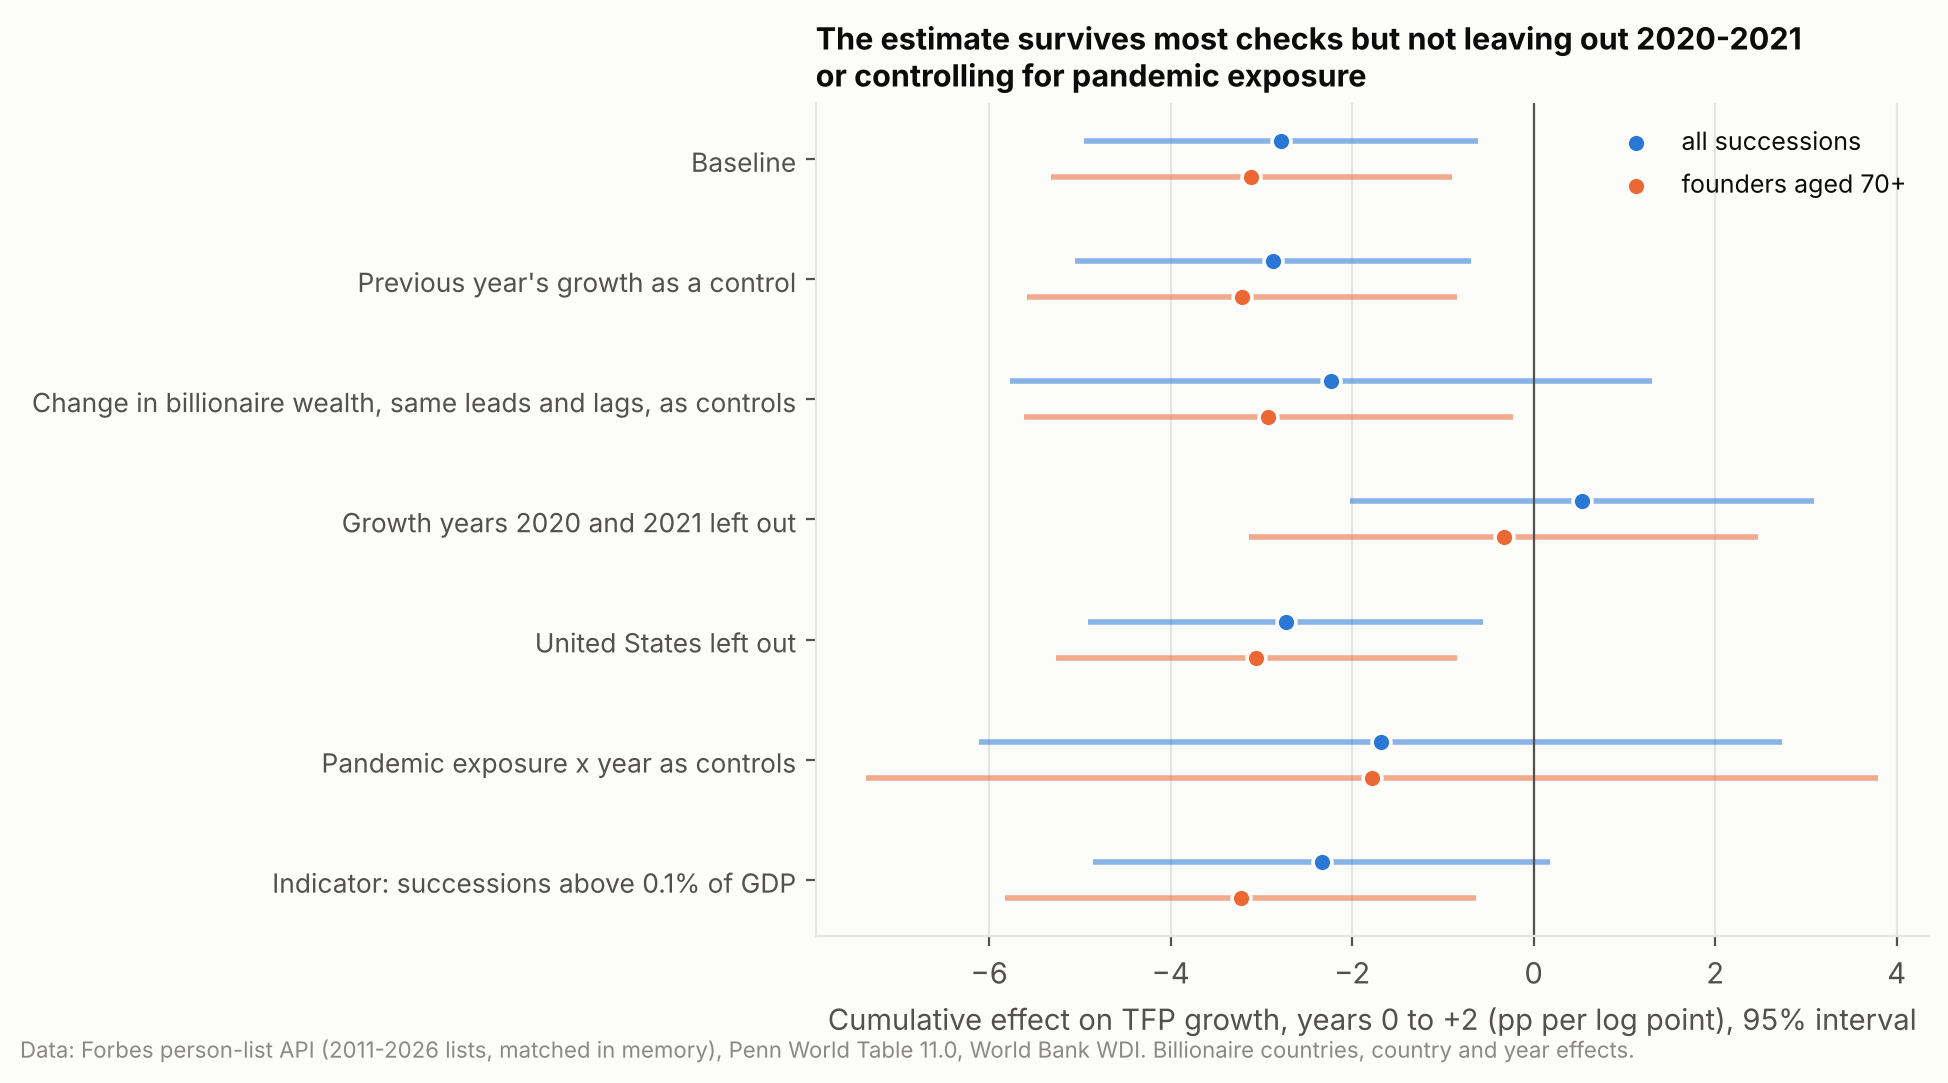
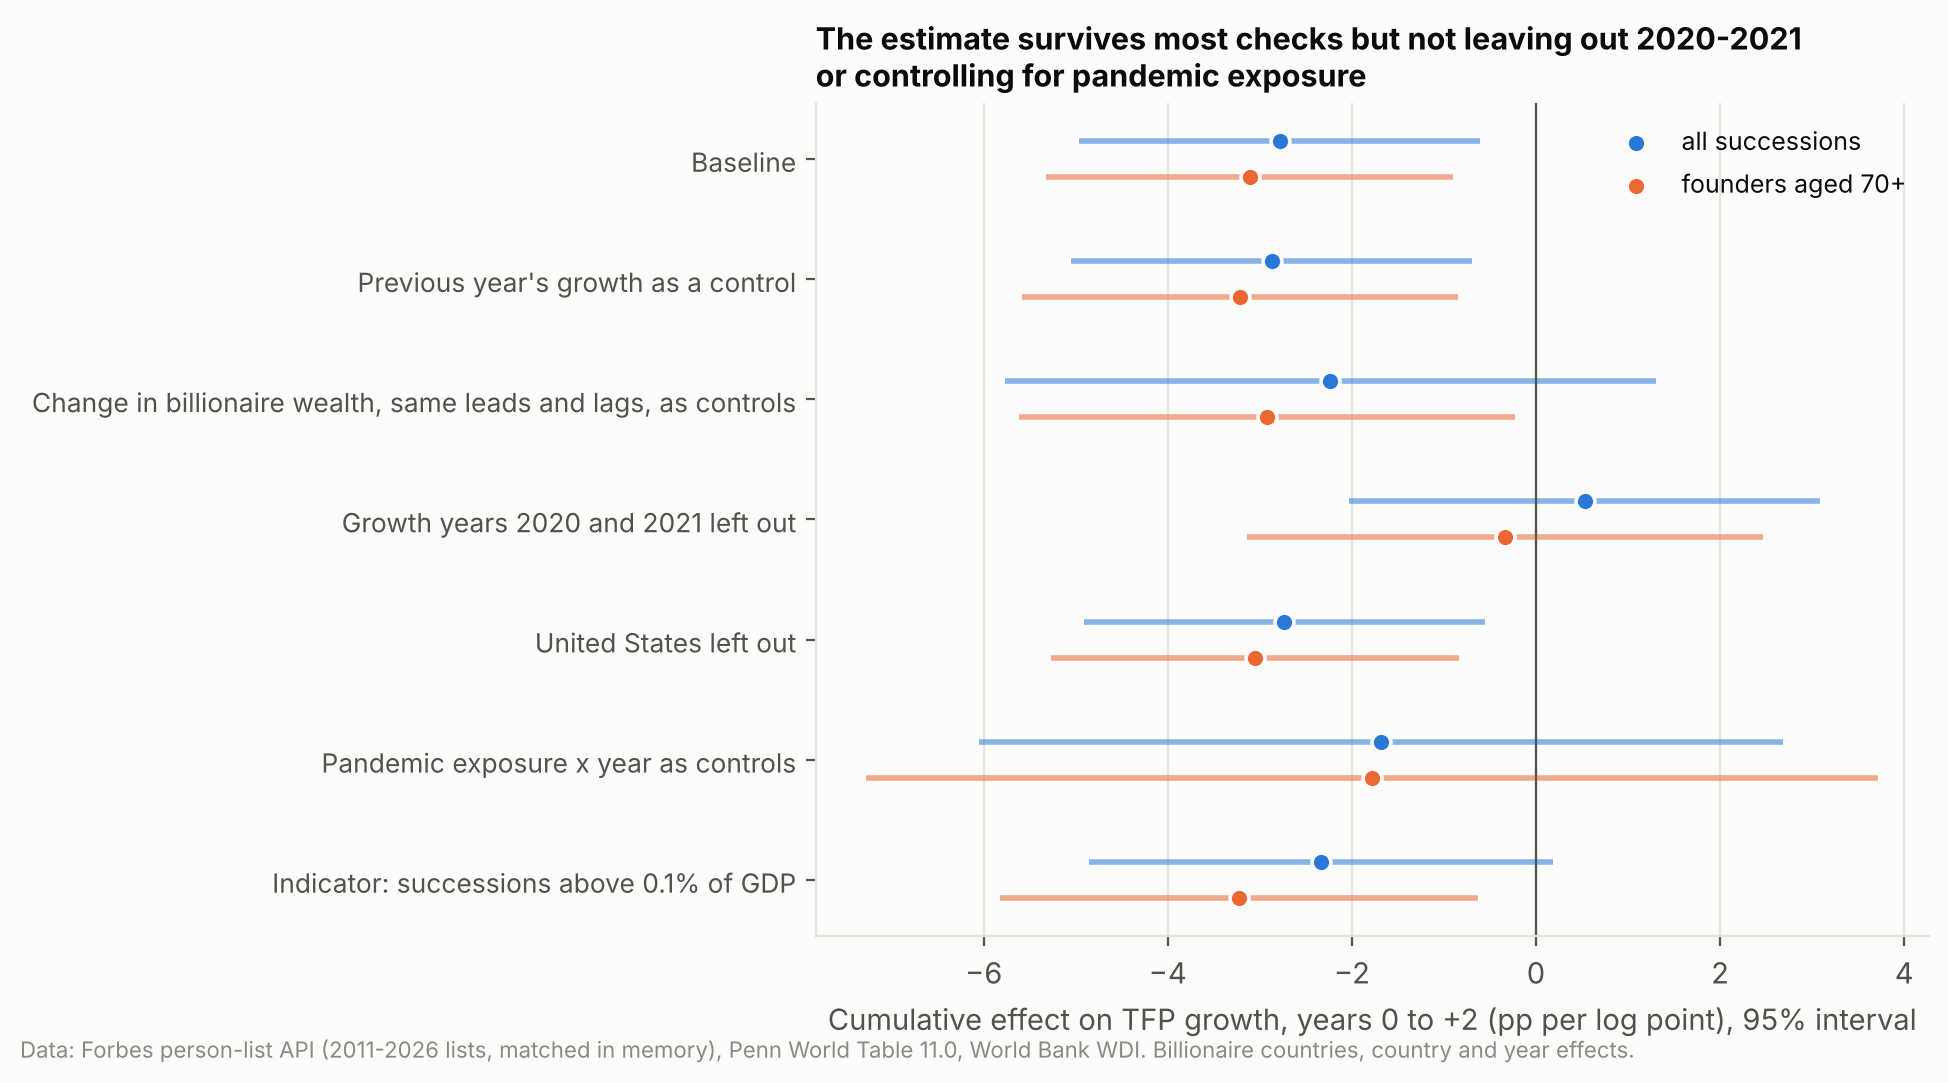
wealth-origin-successions: interact exposure only with estimation years (zero columns made the fit singular and its standard errors machine-dependent)

diff --git a/wealth-origin-successions/analysis.py b/wealth-origin-successions/analysis.py
@@ -473,7 +473,9 @@ def add_exposure_years(a: pd.DataFrame) -> pd.DataFrame:
     base = e.loc[e.index.isin(a.loc[a["billionaire_country"], "iso3"])]
     z = (e - base.mean()) / base.std()
     a = a.merge(z.add_prefix("z_"), left_on="iso3", right_index=True, how="left")
-    years = sorted(a["year"].unique())
+    # only the years that enter the estimation (all leads and lags observed); interactions for other
+    # years would be columns of zeros, which leave the fit singular and its standard errors unstable
+    years = sorted(a.loc[a[es_regs("strict")].notna().all(axis=1), "year"].unique())
     cols = {}
     for k in EXPOSURE:
         for t in years[1:]:
